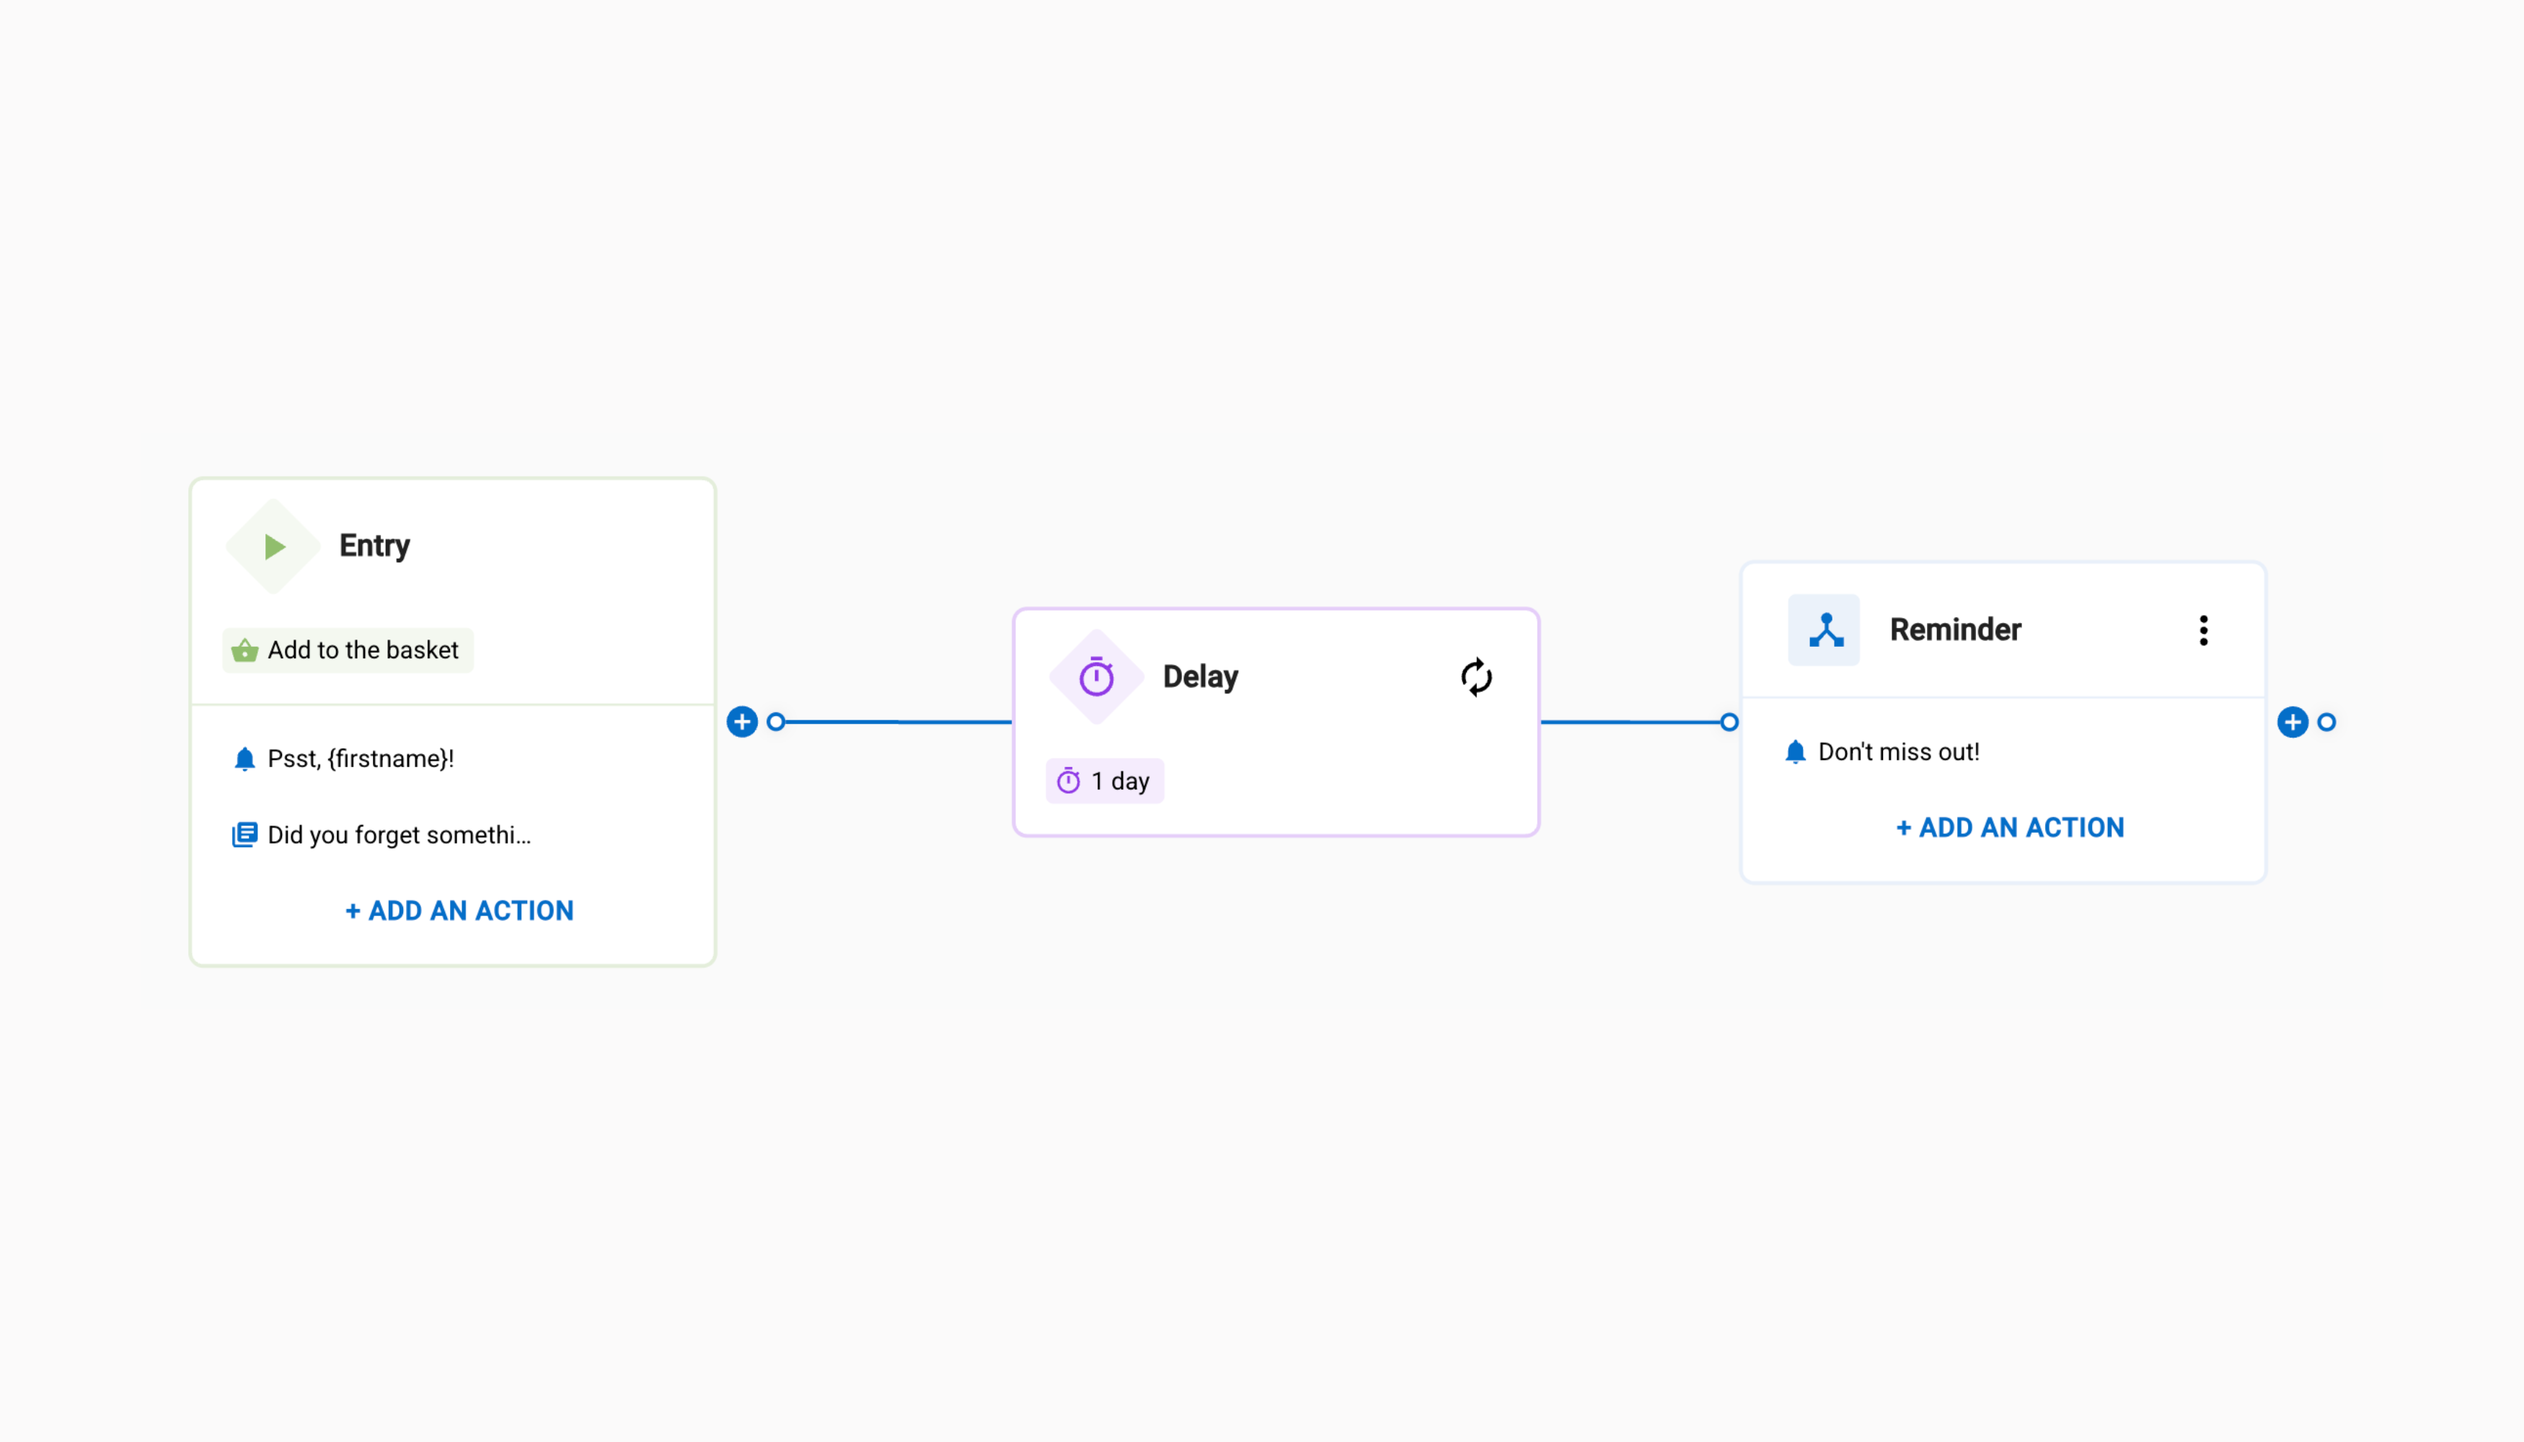
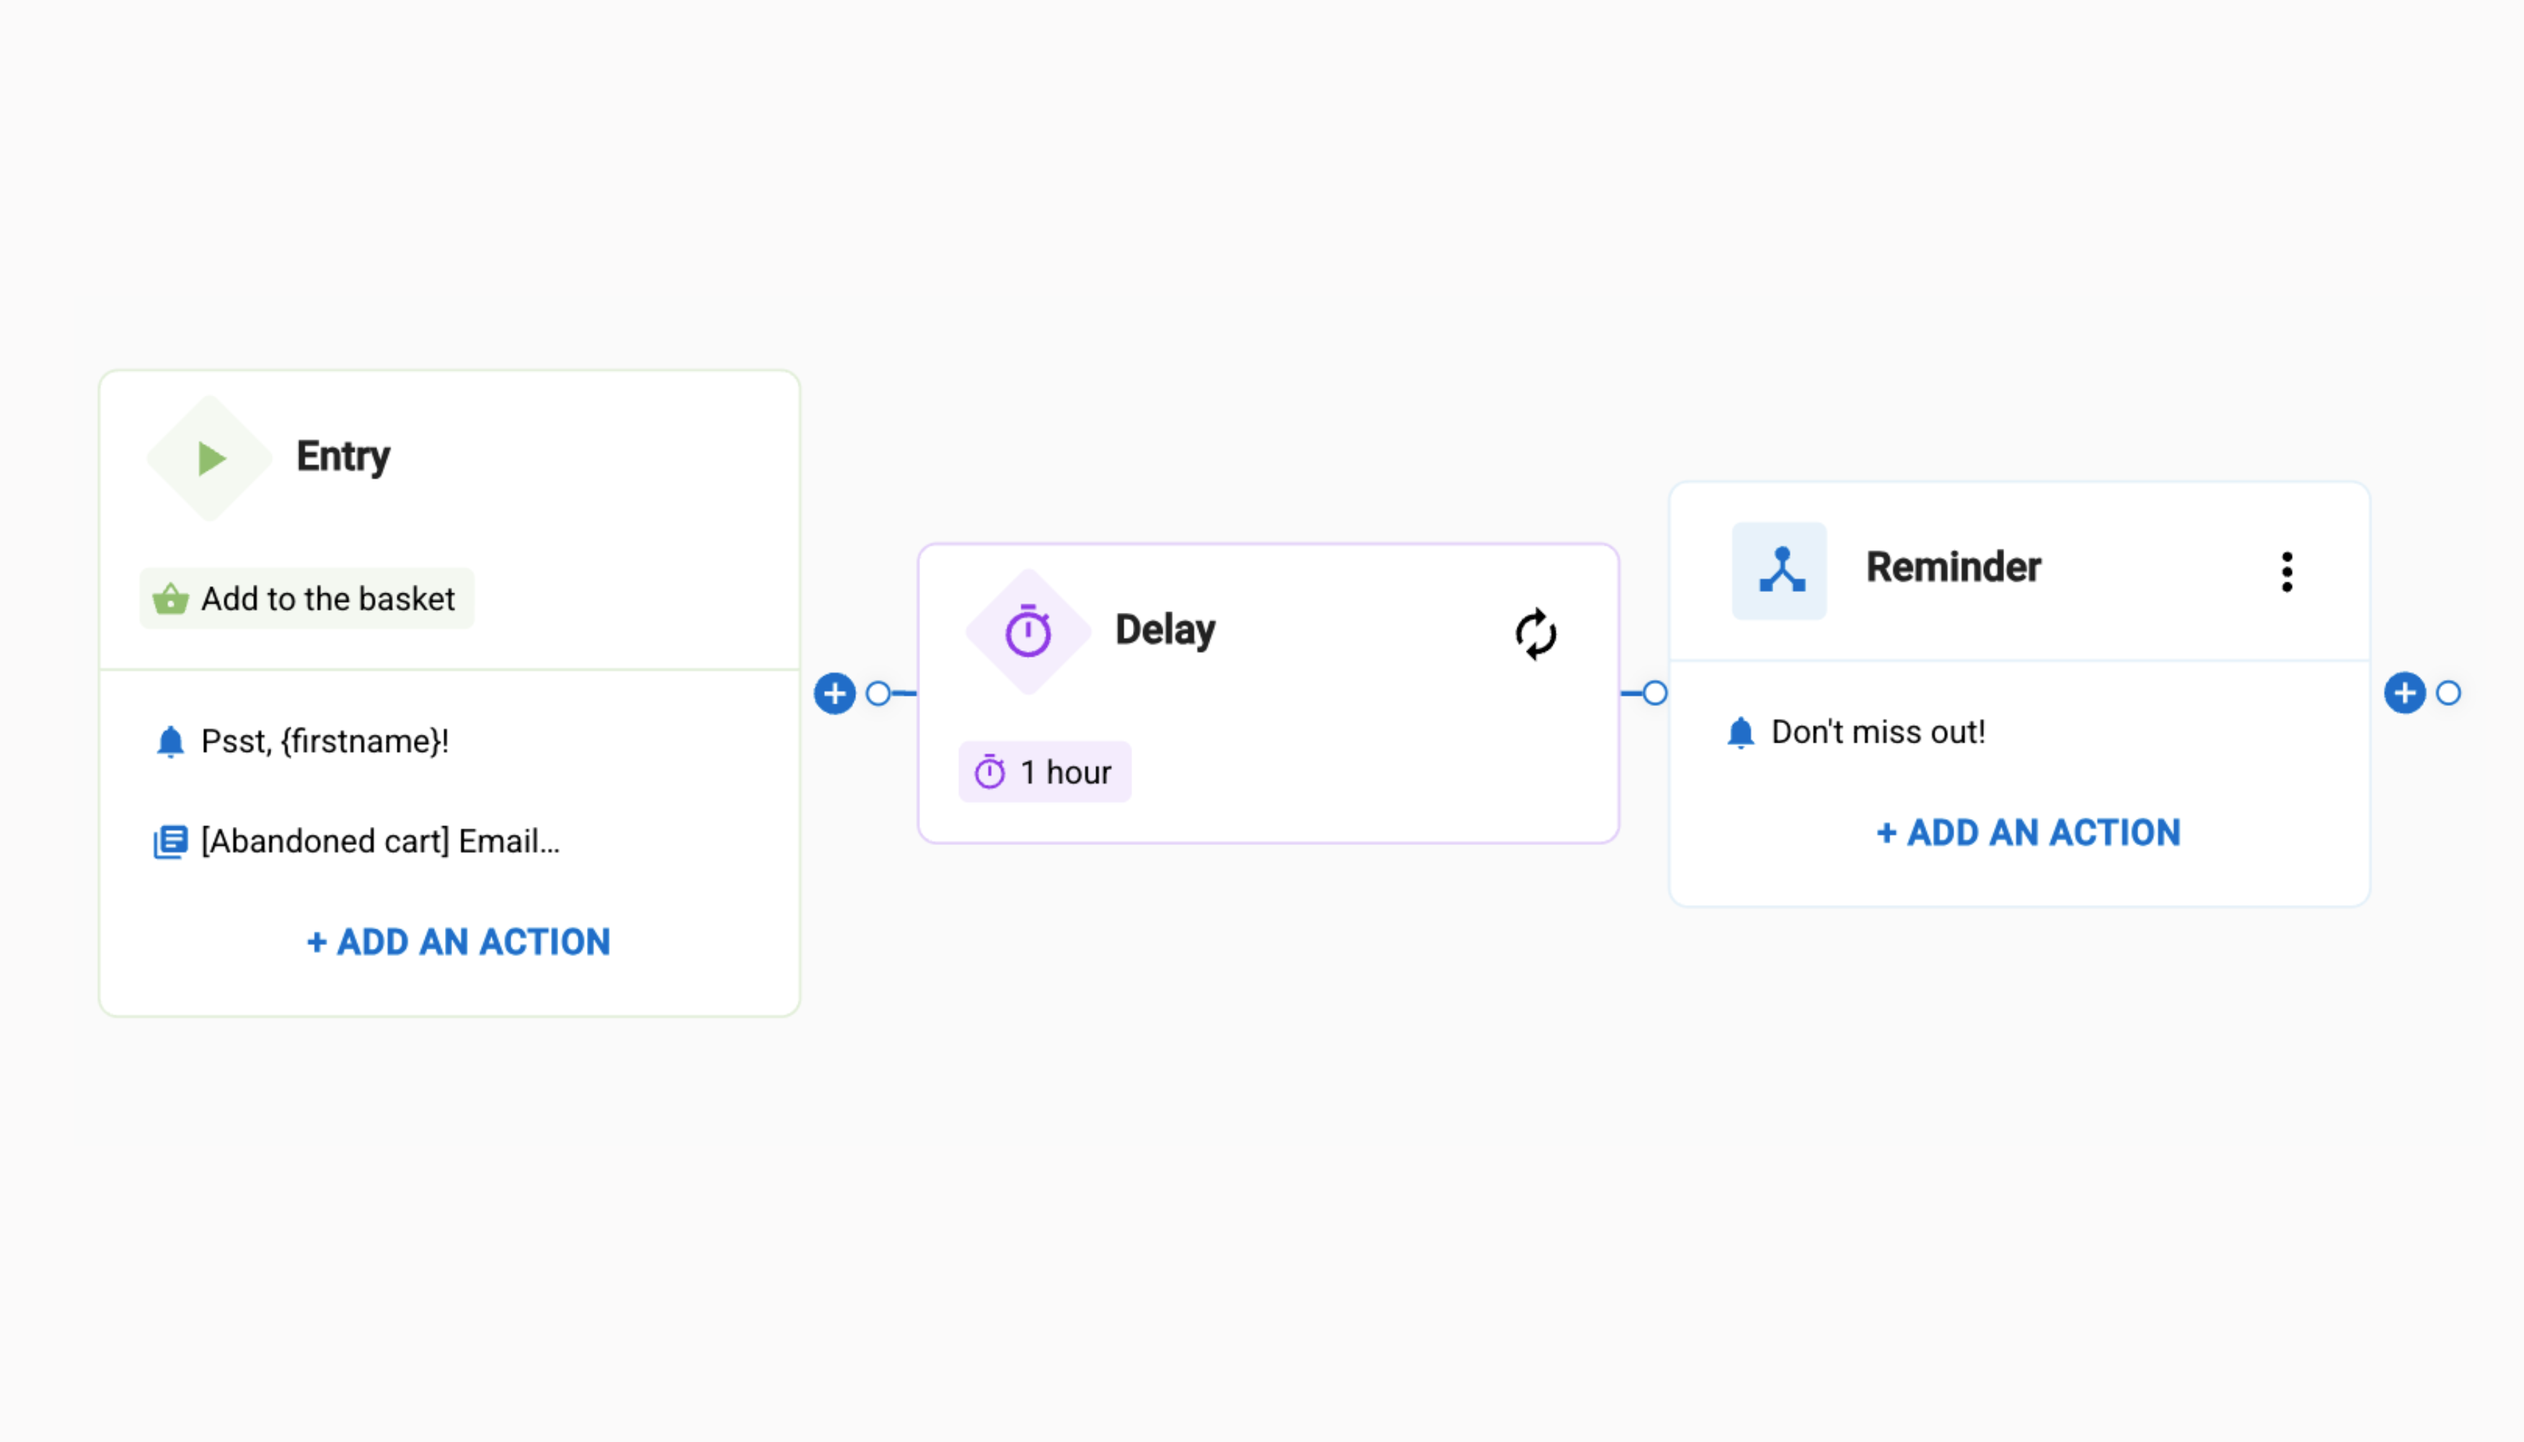
feat(audience): update basket recovery template with hours
* feat(audience): use hours instead of days in checkout recovery template 

https://gitlab.com/bsport/ichizen/-/merge_requests/2198

diff --git a/apps/applications/saas-legacy/src/libs/sequential_marketing/cadence_templates/templates/abandoned-checkout.ts b/apps/applications/saas-legacy/src/libs/sequential_marketing/cadence_templates/templates/abandoned-checkout.ts
@@ -115,8 +115,8 @@ const getAbandonedCheckoutConfig = (t: TFunction): CadenceConfigData => {
         {
           trigger_config: {
             identifier: TriggerIdentifier.TIMEOUT,
-            timeout: 2,
-            timeout_hours: 0,
+            timeout: 0,
+            timeout_hours: 2,
             event_type: null,
             filtered_pks: null,
           },
@@ -172,8 +172,8 @@ const getAbandonedCheckoutConfig = (t: TFunction): CadenceConfigData => {
           {
             trigger_config: {
               identifier: TriggerIdentifier.TIMEOUT,
-              timeout: 1,
-              timeout_hours: 0,
+              timeout: 0,
+              timeout_hours: 1,
               event_type: null,
               filtered_pks: null,
             },
